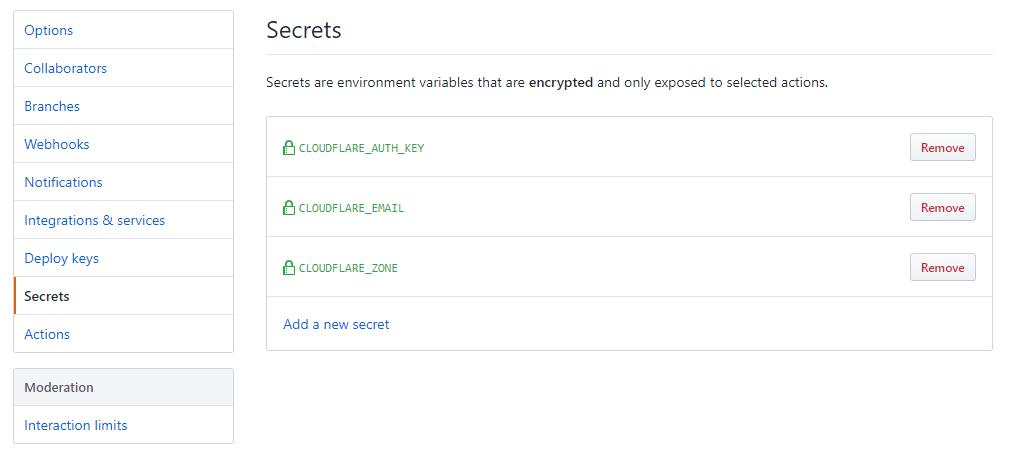
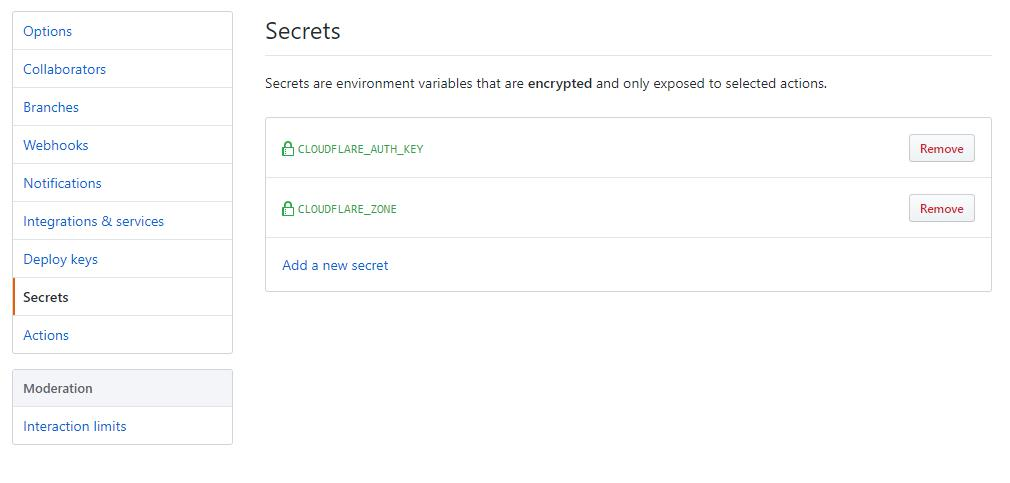
Correct API call

diff --git a/README.md b/README.md
@@ -12,19 +12,15 @@ section of your repository information.
 
 The zone ID of your Cloudflare site. Example:
 
-```
+```bash
 023e105f4ecef8ad9ca31a8372d0c353
 ```
-
-### `CLOUDFLARE_EMAIL`
-
-The email address of your Cloudflare account.
 
 ### `CLOUDFLARE_AUTH_KEY`
 
 The Cloudflare API key you've generated for your zone. Example:
 
-```
+```bash
 c2547eb745079dac9320b638f5e225cf483cc5cfdda41
 ```
 
@@ -32,7 +28,7 @@ c2547eb745079dac9320b638f5e225cf483cc5cfdda41
 
 None
 
-## Example usage
+## Example Usage
 
 ```yml
 - name: Purge cache
@@ -40,26 +36,25 @@ None
   if: success()
   env:
     CLOUDFLARE_ZONE: ${{ secrets.CLOUDFLARE_ZONE }}
-    CLOUDFLARE_EMAIL: ${{ secrets.CLOUDFLARE_EMAIL }}
     CLOUDFLARE_AUTH_KEY: ${{ secrets.CLOUDFLARE_AUTH_KEY }}
 ```
 
 ## Getting Cloudflare Info
 
-1. First, go to the [API tokens page](https://dash.cloudflare.com/profile/api-tokens)
+1.  First, go to the [API tokens page](https://dash.cloudflare.com/profile/api-tokens)
 in your Cloudflare account.
 ![](images/api-tokens.jpg)
 
-2. Click "Create Token", and fill out the form. Make sure to give the permission of
+2.  Click "Create Token", and fill out the form. Make sure to give the permission of
 zone cache purge.
 ![](images/token-creation.jpg)
 
-3. Click "Continue to summary", then "Confirm".
+3.  Click "Continue to summary", then "Confirm".
 
-4. Copy the value of the token.
+4.  Copy the value of the token.
 ![](images/copy-token.jpg)
 
-5. To find the zone ID for your site, go to your dashboard for the site, and look on the
+5.  To find the zone ID for your site, go to your dashboard for the site, and look on the
 right-hand panel.
 ![](images/zone-id.jpg)
 
